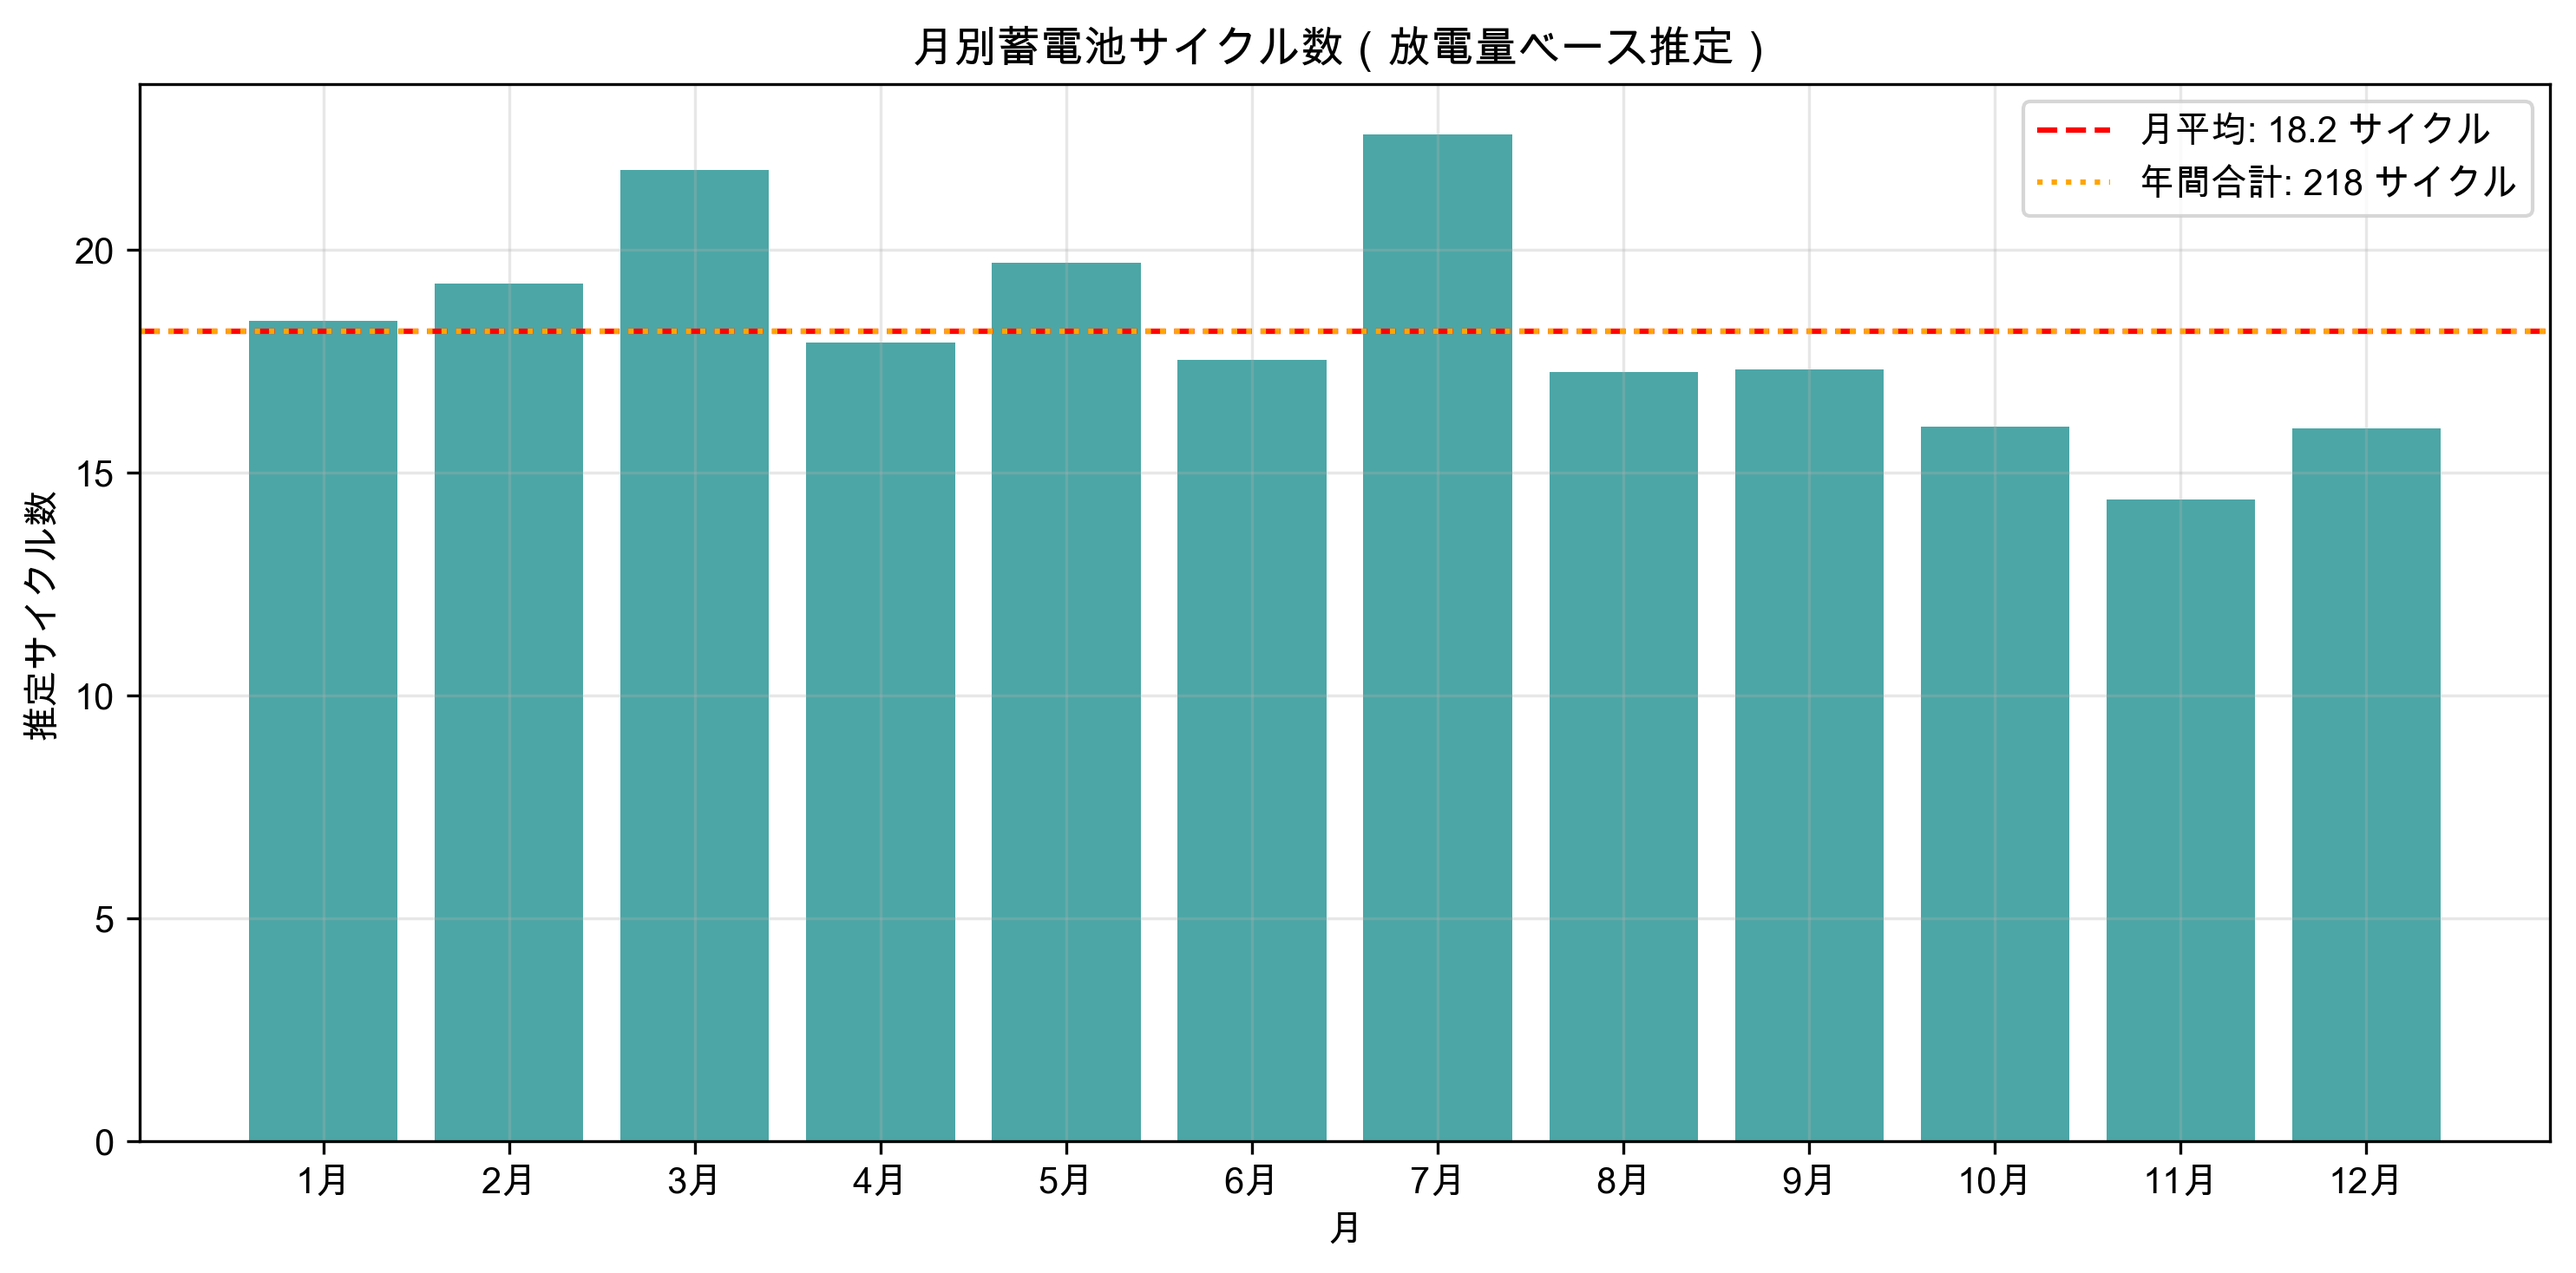
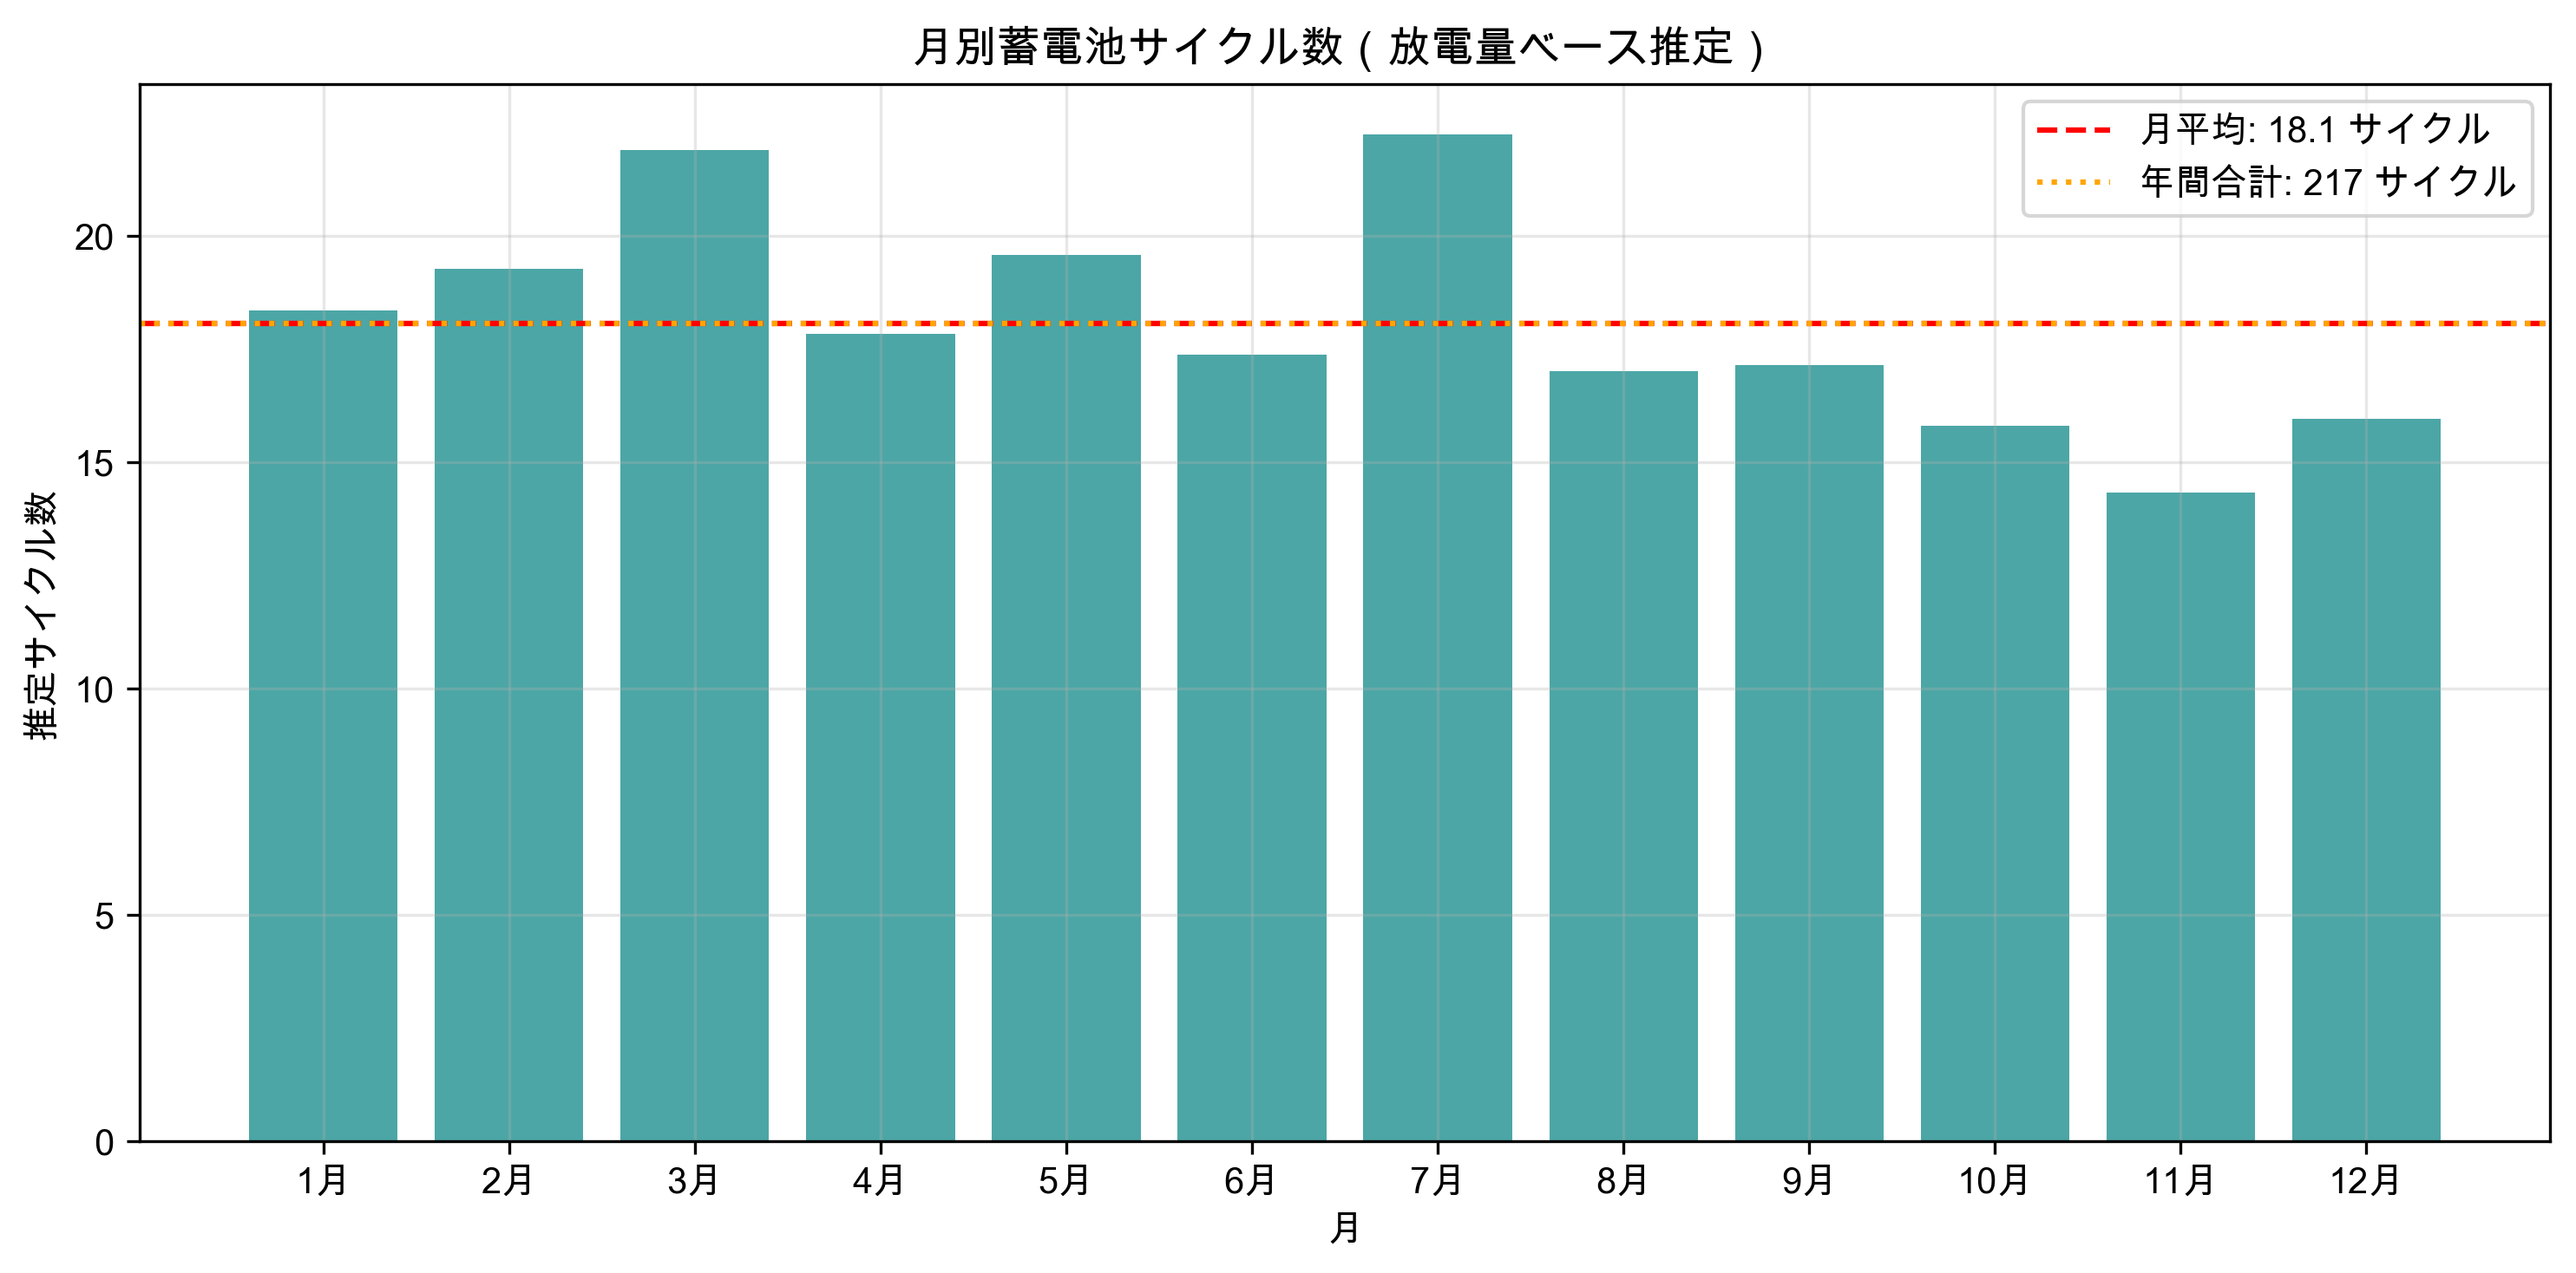
feat: rolling_opt.pyの更新に伴い、soc860の季節分析結果とグラフを更新

diff --git a/scripts/rolling_opt.py b/scripts/rolling_opt.py
@@ -514,7 +514,7 @@ def run_rolling(df, horizon=96, control_horizon=1, time_limit: float = 60.0, max
     except Exception:
         bF0 = float(params['bF_max'] * 0.5)
 
-    for t in range(0, min(N, max_steps)):
+    for t in range(0, min(N, max_steps), control_horizon):
         H = min(horizon, N - t)
         demand_segment = demand_kW_all[t:t + H]
         pv_segment = pv_kW_all[t:t + H]
@@ -536,42 +536,45 @@ def run_rolling(df, horizon=96, control_horizon=1, time_limit: float = 60.0, max
             traceback.print_exc()
             # abort rolling on exception
             break
-        # apply first step decisions
-        sBY0 = res['sBY'][0]
-        sSL0 = res['sSL'][0]
-        xFC10 = res['xFC1'][0]
-        xFD10 = res['xFD1'][0]
-        bF_after = res['bF'][0]
-        pv_used0 = res.get('gP2', [0.0])[0]
-        pv_surplus0 = max(0.0, pv_kW_all[t] - pv_used0)
 
-        timestamp = df.index[t]
-        current_price = price_kW_all[t] if price_data is not None else params['buy_price']
+        # apply control_horizon steps of decisions
+        steps_to_apply = min(control_horizon, len(res['sBY']))
+        for k in range(steps_to_apply):
+            if t + k >= min(N, max_steps):
+                break
+            sBY_k = res['sBY'][k]
+            sSL_k = res['sSL'][k]
+            xFC1_k = res['xFC1'][k]
+            xFD1_k = res['xFD1'][k]
+            bF_k = res['bF'][k]
+            pv_used_k = res.get('gP2', [0.0] * (k+1))[k] if k < len(res.get('gP2', [])) else 0.0
+            pv_surplus_k = max(0.0, pv_kW_all[t + k] - pv_used_k)
 
-        # 予測期間内での契約電力(sBYMAX)を記録
-        sBYMAX_horizon = res.get('sBYMAX', max(res['sBY']) if 'sBY' in res else 0.0)
+            timestamp = df.index[t + k]
+            current_price = price_kW_all[t + k] if price_data is not None else params['buy_price']
 
-        results_rows.append({
-            'timestamp': timestamp,
-            'consumption_kW': consumption_kW_all[t],
-            'pv_kW': pv_kW_all[t],
-            'demand_kW': demand_kW_all[t],
-            'sBY': sBY0,
-            'sSL': sSL0,
-            'pv_used_kW': pv_used0,
-            'pv_surplus_kW': pv_surplus0,
-            'xFC1': xFC10,
-            'xFD1': xFD10,
-            'bF': bF_after,
-            'price_yen_per_kWh': current_price,
-            'sBYMAX_horizon': sBYMAX_horizon,  # 予測期間内の契約電力
-            'status': str(status)
-        })
+            # 予測期間内での契約電力(sBYMAX)を記録
+            sBYMAX_horizon = res.get('sBYMAX', max(res['sBY']) if 'sBY' in res else 0.0)
 
-        # update initial SOC for next iteration
-        bF0 = bF_after
-        # move forward by control_horizon steps
-        # here loop increments by 1, so we just continue
+            results_rows.append({
+                'timestamp': timestamp,
+                'consumption_kW': consumption_kW_all[t + k],
+                'pv_kW': pv_kW_all[t + k],
+                'demand_kW': demand_kW_all[t + k],
+                'sBY': sBY_k,
+                'sSL': sSL_k,
+                'pv_used_kW': pv_used_k,
+                'pv_surplus_kW': pv_surplus_k,
+                'xFC1': xFC1_k,
+                'xFD1': xFD1_k,
+                'bF': bF_k,
+                'price_yen_per_kWh': current_price,
+                'sBYMAX_horizon': sBYMAX_horizon,  # 予測期間内の契約電力
+                'status': str(status)
+            })
+
+        # update initial SOC for next iteration (use last applied step's SOC)
+        bF0 = res['bF'][steps_to_apply - 1]
 
     print(f'\nCompleted: {len(results_rows)} steps processed out of {min(N, max_steps)} requested')
 
@@ -1063,6 +1066,7 @@ def main():
     parser.add_argument('--sheet', default='30分値')
     parser.add_argument('--bF_max', type=float, default=None, help='蓄電池全容量 [kWh]（例: 860） - 指定すると params["bF_max"] を上書き')
     parser.add_argument('--horizon', type=int, default=96)  # 48時間先まで予測（96ステップ）
+    parser.add_argument('--control_horizon', type=int, default=1, help='制御ホライズン [ステップ] - 何ステップごとに計画を更新するか（1=30分ごと、4=2時間ごと）')
     parser.add_argument('--time_limit', type=float, default=10.0)
     parser.add_argument('--max_steps', type=int, default=None)
     parser.add_argument('--price_data', default='data/spot_summary_2024.csv', help='JEPX spot price data file (2024年度)')
@@ -1228,7 +1232,7 @@ def main():
         print('プラン: 北海道電力基本プラン (電力量料金+燃料費調整額+再エネ賦課金)')
 
         hokkaido_start_time = time.time()
-        df_res_hokkaido = run_rolling(df, horizon=args.horizon, control_horizon=1, time_limit=args.time_limit,
+        df_res_hokkaido = run_rolling(df, horizon=args.horizon, control_horizon=args.control_horizon, time_limit=args.time_limit,
                                        max_steps=args.max_steps, params=params, price_data=None)
         hokkaido_elapsed = time.time() - hokkaido_start_time
         timing_info['hokkaido_basic_seconds'] = hokkaido_elapsed
@@ -1261,7 +1265,7 @@ def main():
             print('プラン: 市場価格連動プラン (JEPX spot price data)')
 
             market_start_time = time.time()
-            df_res_market = run_rolling(df, horizon=args.horizon, control_horizon=1, time_limit=args.time_limit,
+            df_res_market = run_rolling(df, horizon=args.horizon, control_horizon=args.control_horizon, time_limit=args.time_limit,
                                          max_steps=args.max_steps, params=params, price_data=price_data)
             market_elapsed = time.time() - market_start_time
             timing_info['market_linked_seconds'] = market_elapsed
